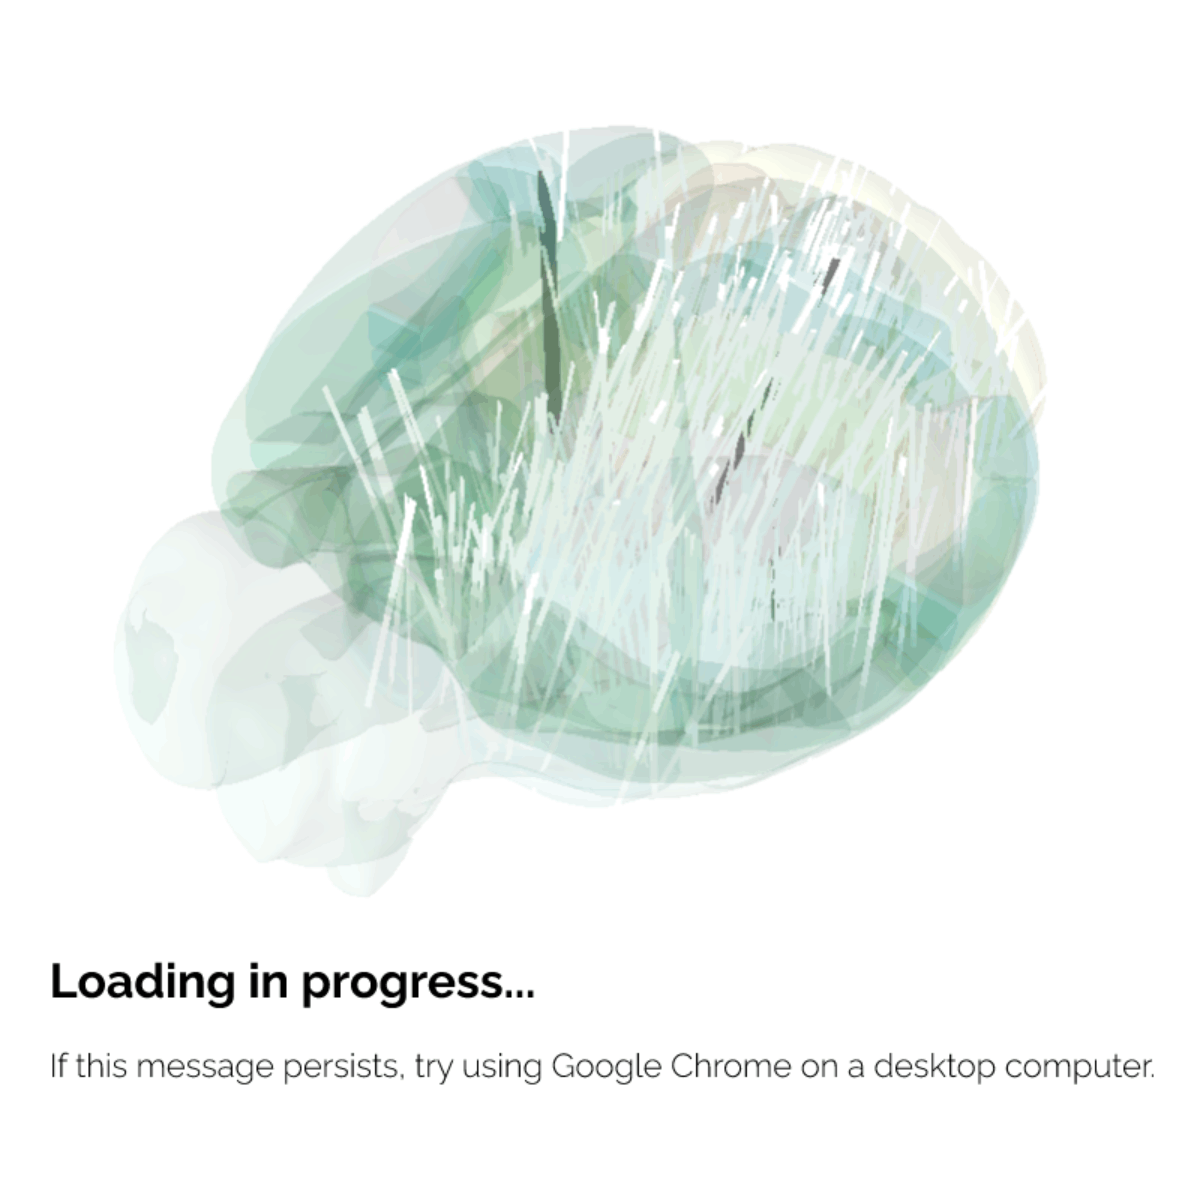
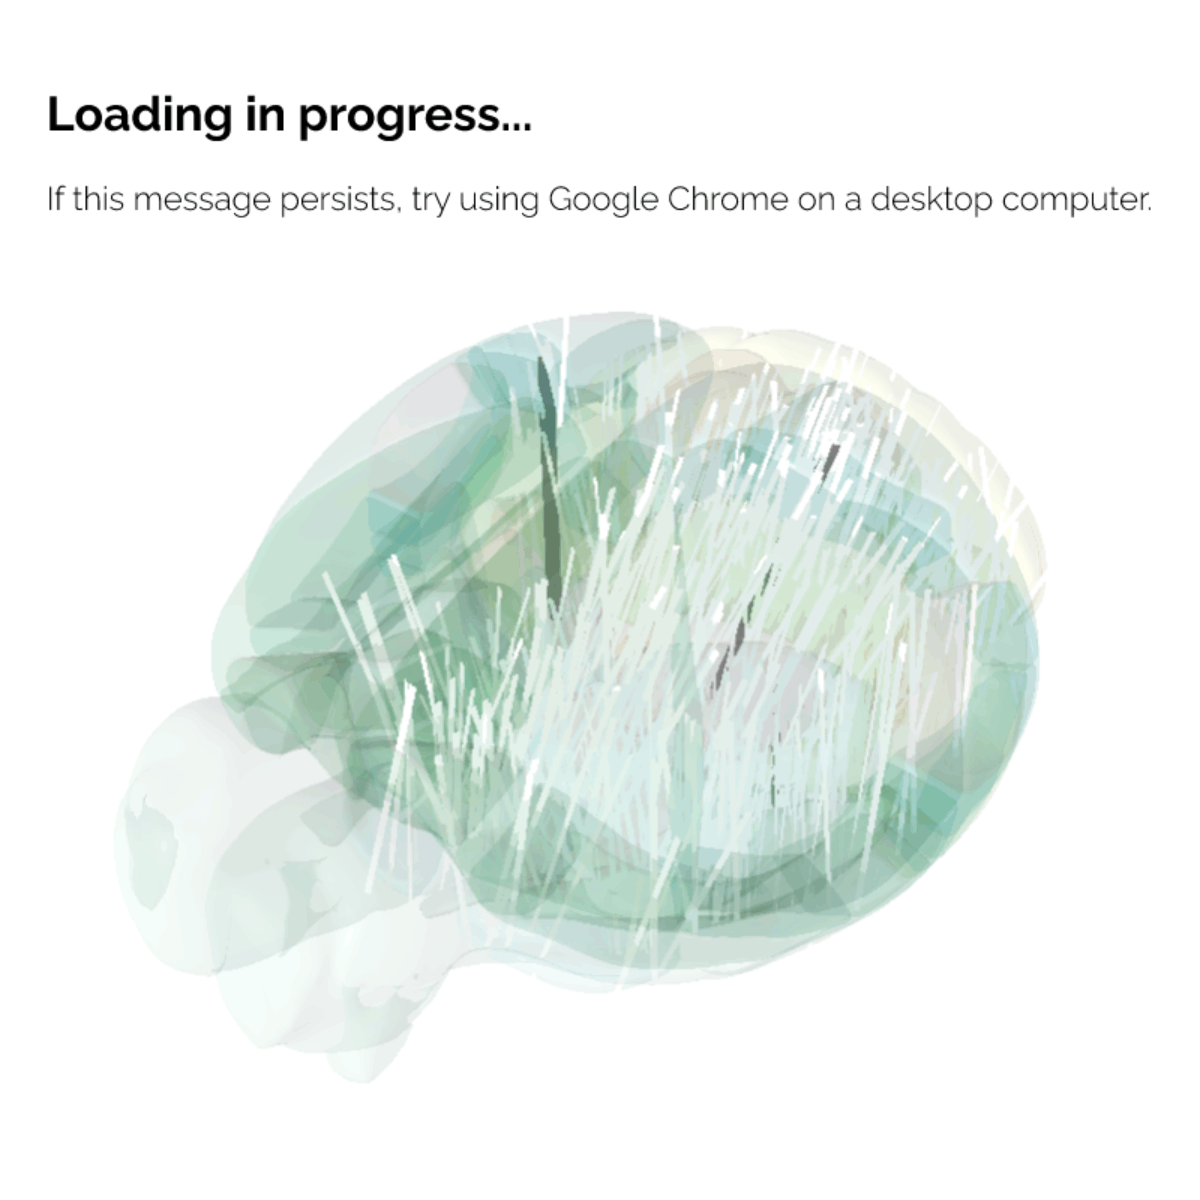
Add top nav bar

diff --git a/static/styles.css b/static/styles.css
@@ -1,4 +1,46 @@
 /*************************************************************************************************/
+/*  Fonts                                                                                        */
+/*************************************************************************************************/
+
+@font-face {
+    font-family: proxima-nova;
+    src: url(https://use.typekit.net/af/efe4a5/00000000000000007735e609/30/l?subset_id=2&fvd=n4&v=3) format("woff2"), url(https://use.typekit.net/af/efe4a5/00000000000000007735e609/30/d?subset_id=2&fvd=n4&v=3) format("woff"), url(https://use.typekit.net/af/efe4a5/00000000000000007735e609/30/a?subset_id=2&fvd=n4&v=3) format("opentype");
+    font-weight: 400;
+    font-style: normal;
+    font-stretch: normal;
+    font-display: auto;
+}
+
+@font-face {
+    font-family: proxima-nova;
+    src: url(https://use.typekit.net/af/2555e1/00000000000000007735e603/30/l?subset_id=2&fvd=n7&v=3) format("woff2"), url(https://use.typekit.net/af/2555e1/00000000000000007735e603/30/d?subset_id=2&fvd=n7&v=3) format("woff"), url(https://use.typekit.net/af/2555e1/00000000000000007735e603/30/a?subset_id=2&fvd=n7&v=3) format("opentype");
+    font-weight: 700;
+    font-style: normal;
+    font-stretch: normal;
+    font-display: auto;
+}
+
+@font-face {
+    font-family: proxima-nova;
+    src: url(https://use.typekit.net/af/3322cc/00000000000000007735e616/30/l?subset_id=2&fvd=i4&v=3) format("woff2"), url(https://use.typekit.net/af/3322cc/00000000000000007735e616/30/d?subset_id=2&fvd=i4&v=3) format("woff"), url(https://use.typekit.net/af/3322cc/00000000000000007735e616/30/a?subset_id=2&fvd=i4&v=3) format("opentype");
+    font-weight: 400;
+    font-style: italic;
+    font-stretch: normal;
+    font-display: auto;
+}
+
+@font-face {
+    font-family: proxima-nova;
+    src: url(https://use.typekit.net/af/4de20a/00000000000000007735e604/30/l?subset_id=2&fvd=i7&v=3) format("woff2"), url(https://use.typekit.net/af/4de20a/00000000000000007735e604/30/d?subset_id=2&fvd=i7&v=3) format("woff"), url(https://use.typekit.net/af/4de20a/00000000000000007735e604/30/a?subset_id=2&fvd=i7&v=3) format("opentype");
+    font-weight: 700;
+    font-style: italic;
+    font-stretch: normal;
+    font-display: auto;
+}
+
+
+
+/*************************************************************************************************/
 /*  Global                                                                                       */
 /*************************************************************************************************/
 
@@ -9,11 +51,61 @@ html.wait * {
 
 
 
+body {
+    font-family: proxima-nova;
+}
+
+
+
 /*************************************************************************************************/
 /*  Header                                                                                       */
 /*************************************************************************************************/
 
-#titleLinks {
+#header,
+#footer {
+    background-color: white;
+    position: -webkit-sticky;
+    position: sticky;
+    top: 0;
+    z-index: +100;
+
+    font-family: "Roboto Condensed";
+    font-size: 14px;
+    font-weight: 300;
+    letter-spacing: 1px;
+    text-transform: uppercase;
+}
+
+#header a,
+#footer a {
+    text-decoration: none;
+    color: #333;
+}
+
+#header a:hover,
+#footer a:hover {
+    color: #999;
+}
+
+#header img {
+    max-height: 80px;
+    width: auto;
+    height: auto;
+    vertical-align: middle;
+}
+
+#header ul {
+    display: inline-block;
+    margin: 0 40px;
+}
+
+#header ul li {
+    display: inline-block;
+    margin: 0 20px;
+}
+
+
+/* #titleLinks {
     position: relative;
     top: -20px;
 }
@@ -22,10 +114,25 @@ html.wait * {
     padding: 0 10px;
 }
 
+h1 {
+    font-family: "Roboto Condensed";
+}
+
 h2 {
     font-size: 24pt;
     text-align: center;
     margin: 12px 0;
+} */
+
+
+
+/*************************************************************************************************/
+/*  Footer                                                                                       */
+/*************************************************************************************************/
+
+#footer {
+    text-align: center;
+    padding: 20px 0;
 }
 
 

diff --git a/templates/template.html b/templates/template.html
@@ -57,39 +57,56 @@
         integrity="sha512-igVQ7hyQVijOUlfg3OmcTZLwYJIBXU63xL9RC12xBHNpmGJAktDnzl9Iw0J4yrSaQtDxTTVlwhY730vphoVqJQ=="
         crossorigin="anonymous" referrerpolicy="no-referrer"></script>
 
-    <!-- Passing data from Flask to Javascript -->
-    <script>
-        const JS_CONTEXT = {{ js_context| tojson }};
-    </script>
-
-    <!-- Custom Array class -->
-    <script src="{{ url_for('static', filename='array.js') }}"></script>
-
-    <!-- Custom JS code -->
-    <script src="{{ url_for('static', filename='scripts.js') }}"></script>
-
     {% block header %}{% endblock %}
 
 </head>
 
 <body>
-    <form onsubmit="return false;">
+    <!-- .container is main centered wrapper -->
 
-        <!-- .container is main centered wrapper -->
-        <div class="container">
+    <!-- HEADER -->
+    <header id="header">
+        <nav>
+            <div class="container">
+                <div class="twelve columns">
+                    <!-- IBL LOGO -->
+                    <a href="/"><img src="/static/ibl.png"></a>
 
-            <div class="row">
-                <h1>IBL public website prototype</h1>
-                <div id="titleLinks">
-                    <a href="https://github.com/int-brain-lab/website" target="_blank">GitHub</a>
+                    <!-- MENU -->
+                    <ul>
+                        <li><a href="/">Home</a></li>
+                        <li><a href="/app">App</a></li>
+                        <li><a href="#">Paper</a></li>
+                        <li><a href="https://github.com/int-brain-lab/website">Code</a></li>
+                        <li><a href="https://www.internationalbrainlab.com/">Lab</a></li>
+                    </ul>
                 </div>
             </div>
+        </nav>
+    </header>
 
+
+    <!-- CONTENT -->
+    <form onsubmit="return false;">
+        <!-- .container is main centered wrapper -->
+        <div class="container">
             {% block content %}{% endblock %}
-
         </div>
-
     </form>
+
+
+
+
+    <!-- FOOTER -->
+    <header id="footer">
+        <nav>
+            <div class="container">
+                <div class="twelve columns">
+                    <a href="https://www.internationalbrainlab.com/">International Brain Laboratory</a> — 2022
+                </div>
+            </div>
+        </nav>
+    </header>
 </body>
 
 </html>

diff --git a/templates/app.html b/templates/app.html
@@ -2,6 +2,19 @@
 
 
 {% block header %}
+
+<!-- Passing data from Flask to Javascript -->
+<script>
+    const JS_CONTEXT = {{ js_context| tojson }};
+</script>
+
+<!-- Custom Array class -->
+<script src="{{ url_for('static', filename='array.js') }}"></script>
+
+<!-- Custom JS code -->
+<script src="{{ url_for('static', filename='scripts.js') }}"></script>
+
+<!-- Unity loader -->
 <script src="static/Build/IBLMini-webgl.loader.js"></script>
 {% endblock %}
 
